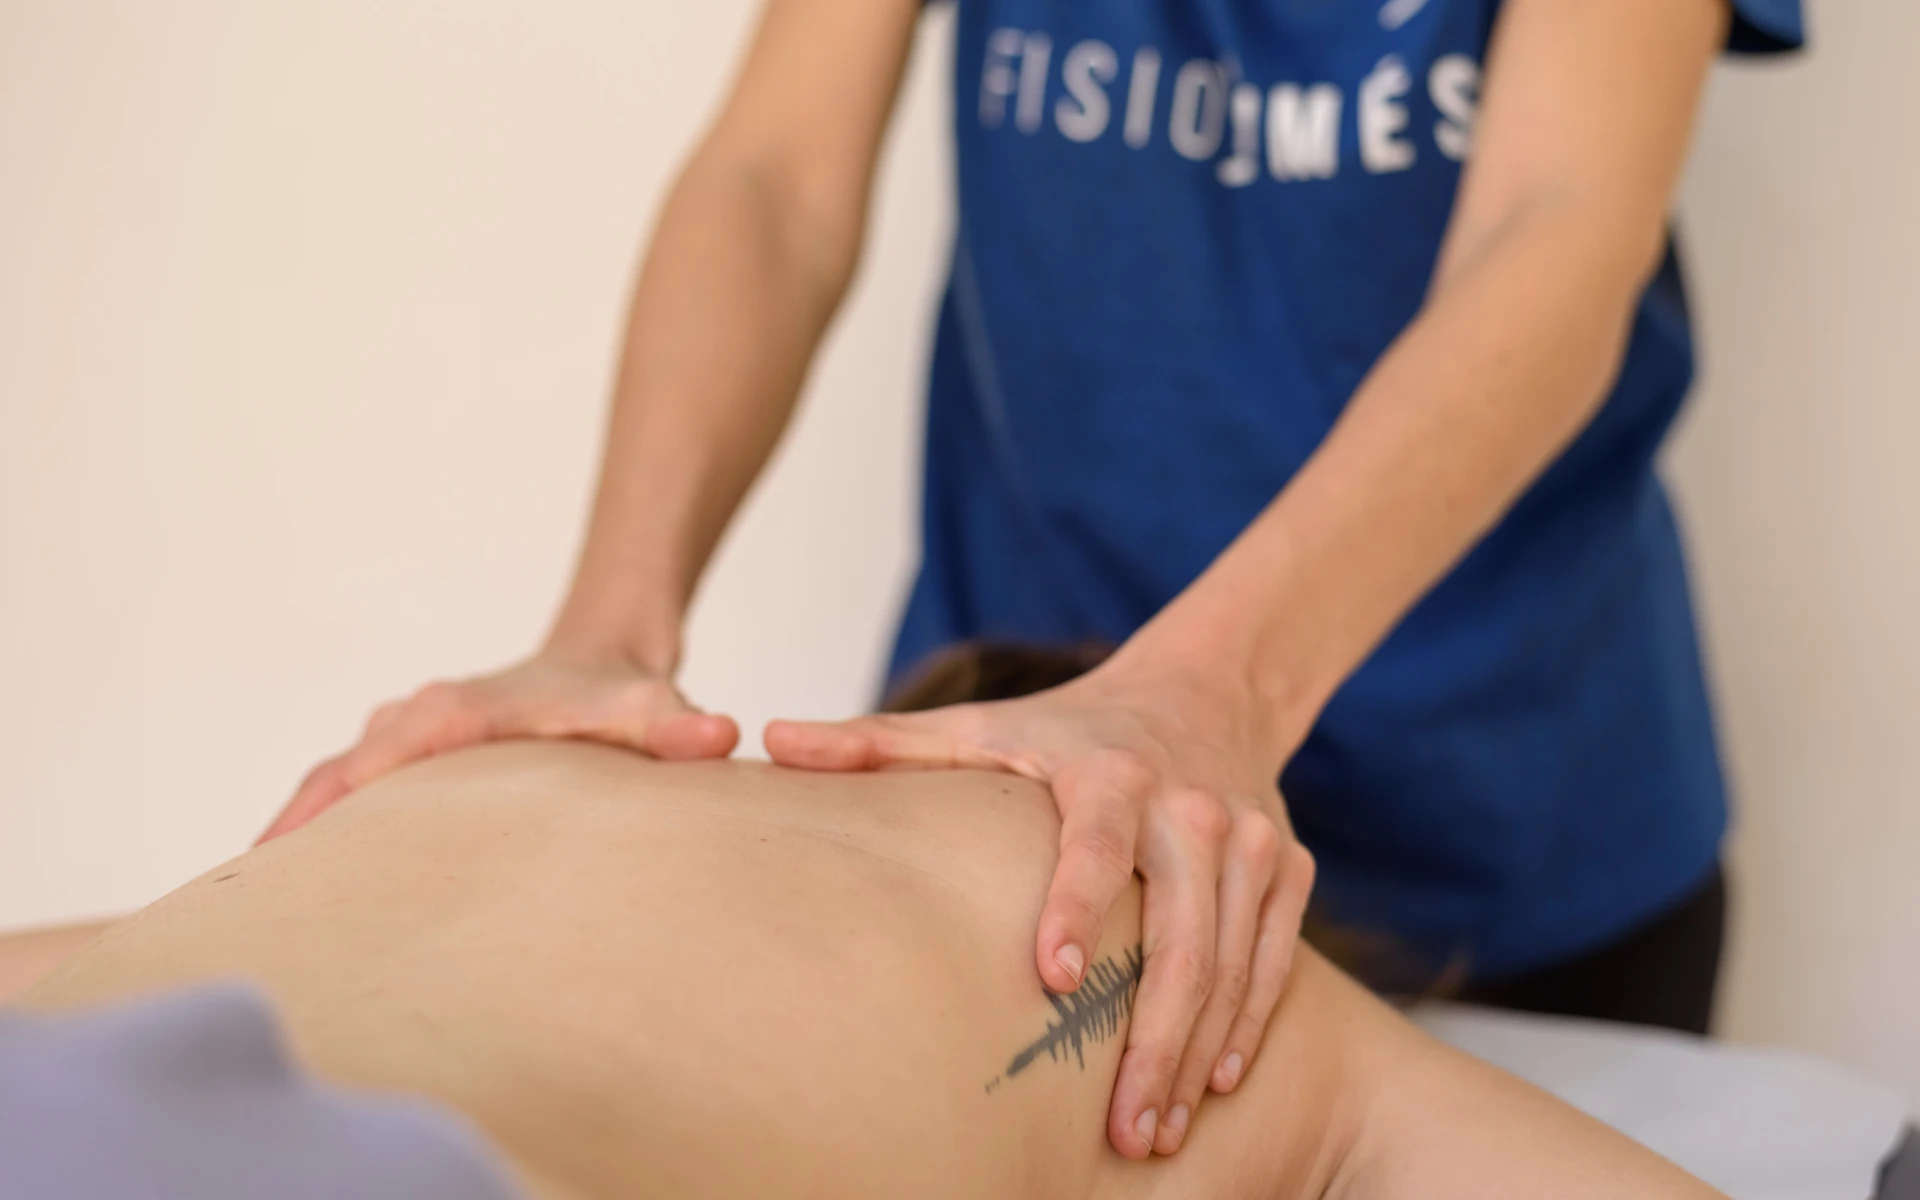
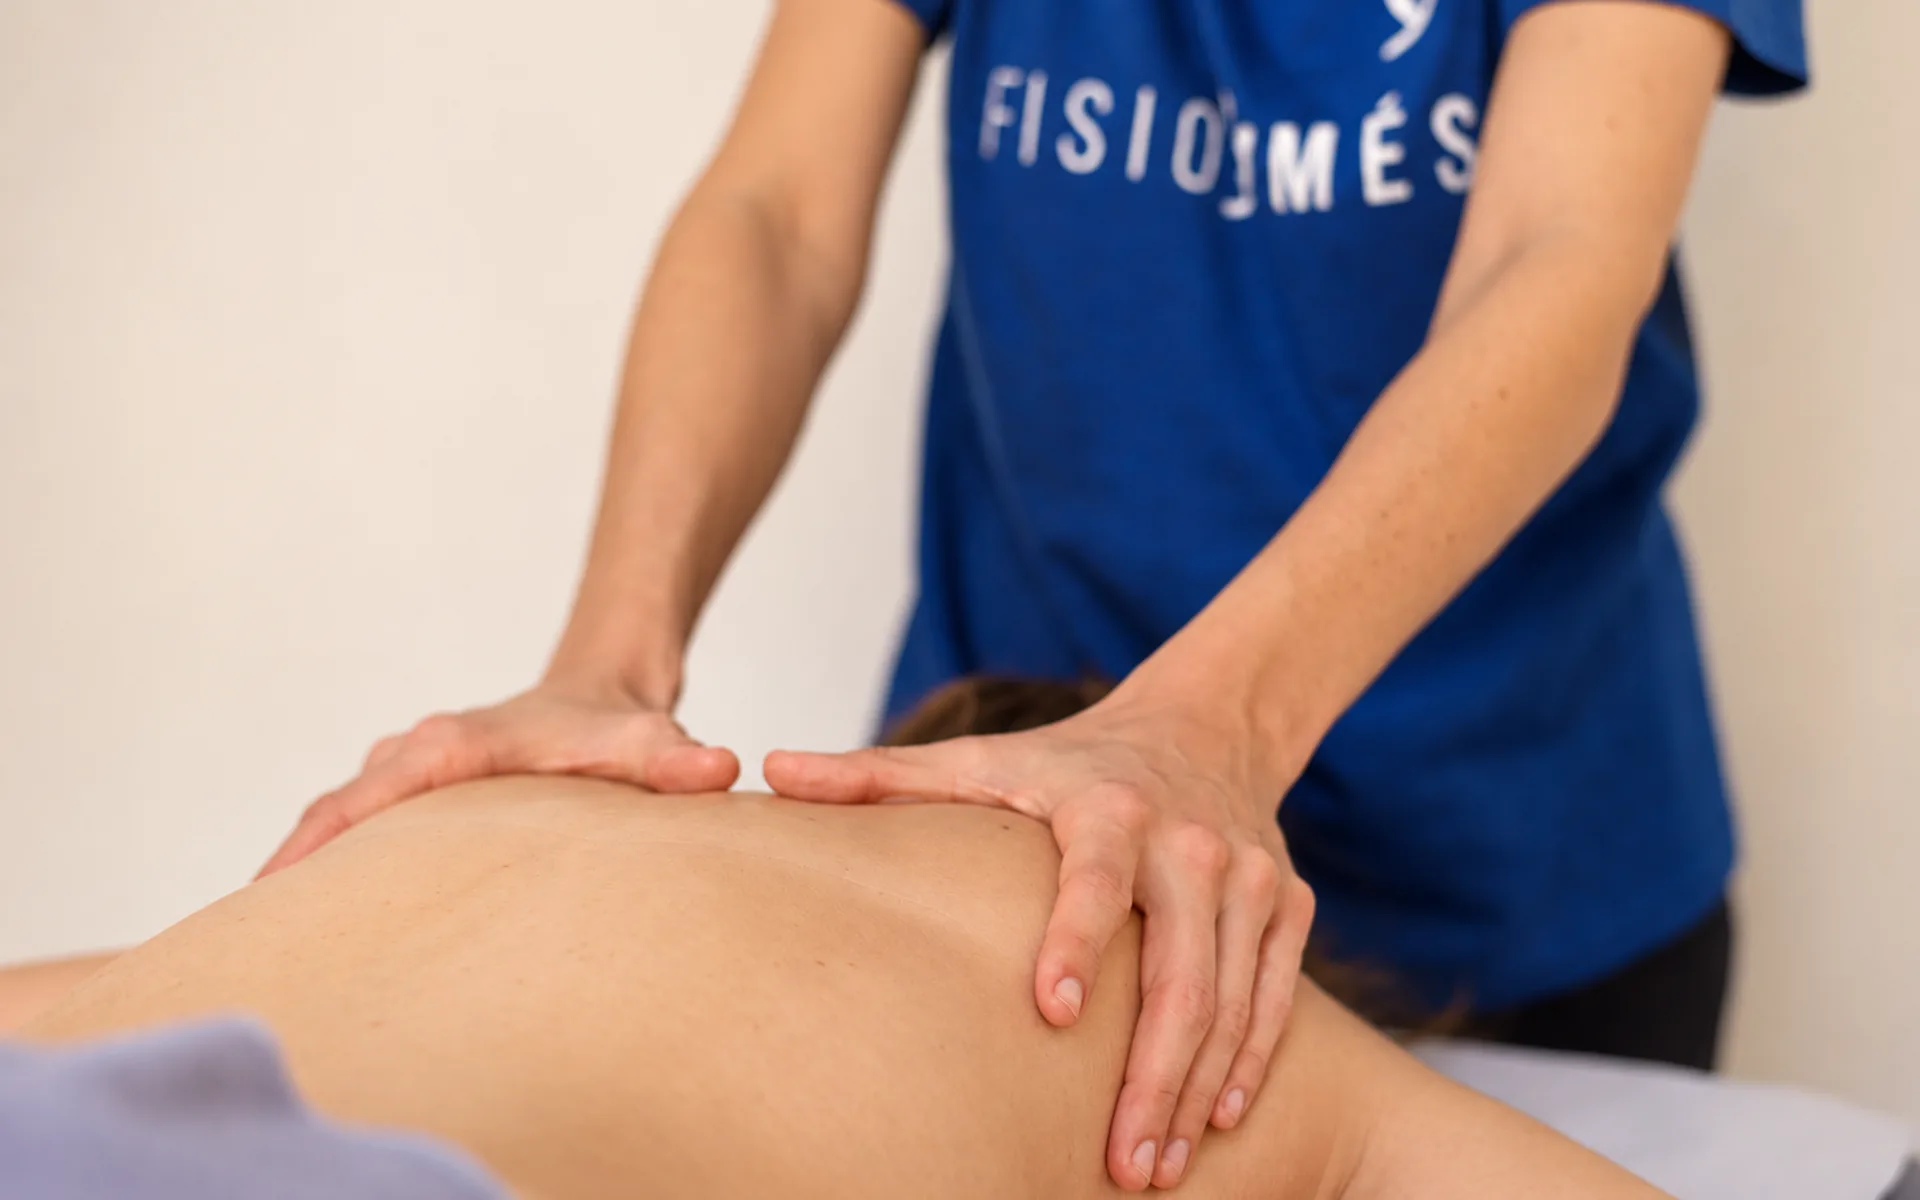
Classes: ordre Pilates/Força/Entrenament, calendari sense hores buides i fons de secció
- Classes dirigides: l'ordre passa a ser Pilates terapèutic, Força ++ i
  Entrenament personal (CA i ES).
- Calendari: només les hores amb classe (09, 10, 12, 13, 18 i 19) i línia
  separadora entre matí i tarda, com al nou horari del client.
- Carrusel de l'inici: nova foto de massatge com a primera diapositiva i
  substitució de hero2-fisioterapia per la versió nova.
- Classes dirigides: foto de la sala com a fons tènue de la capçalera,
  amb el mateix patró de línies que Tractaments i Equip.

diff --git a/src/data/content.ts b/src/data/content.ts
@@ -30,7 +30,9 @@ export const routes: Record<Lang, Record<string, string>> = {
 // Calendari setmanal de classes dirigides (igual en CA i ES; els noms de classe no es tradueixen).
 // dies: 0 = Dilluns … 4 = Divendres. Cada cel·la referencia una clau de `classKinds`.
 export const classSchedule = {
-  hours: ['09:00', '10:00', '11:00', '12:00', '13:00', '14:00', '15:00', '16:00', '17:00', '18:00', '19:00', '20:00'],
+  hours: ['09:00', '10:00', '12:00', '13:00', '18:00', '19:00'],
+  // Franja de tarda: la fila que obre el bloc de tarda porta un separador visual.
+  afternoonFrom: '18:00',
   kinds: {
     pilates: { label: 'Pilates', tone: 'soft' },
     forca: { label: 'Força ++', tone: 'strong' },
@@ -144,17 +146,6 @@ export const t = {
         cta: 'Reserva la teva plaça',
         items: [
           {
-            name: 'Força ++',
-            img: B + 'assets/class-forca.webp',
-            paras: [
-              'Les nostres classes de força estan pensades per a persones que volen mantenir-se actives, guanyar força i millorar la seva condició física d’una manera segura, progressiva i supervisada per un fisioterapeuta.',
-              'Treballem en grups reduïts, fet que ens permet adaptar els exercicis al nivell i les capacitats de cada persona, controlar-ne l’execució i garantir una progressió adequada. Les sessions combinen força, estabilitat, equilibri, coordinació i mobilitat amb un treball dinàmic i funcional.',
-              'L’entrenament es fa principalment en format circuit, alternant estacions de treball per exercitar de manera global les extremitats superiors i inferiors, el core i el sistema cardiovascular.',
-              'Ideals tant per començar a entrenar amb seguretat com per mantenir o millorar la força, prevenir la pèrdua de massa muscular i conservar una bona capacitat funcional amb el pas dels anys.',
-            ],
-            schedule: ['Dimarts 18:00', 'Divendres 12:00'],
-          },
-          {
             name: 'Pilates terapèutic',
             img: B + 'assets/class-pilates.webp',
             paras: [
@@ -164,6 +155,17 @@ export const t = {
               'Les sessions estan supervisades per fisioterapeutes, que adapten els exercicis i la intensitat segons les necessitats, limitacions i evolució de cada persona.',
             ],
             schedule: ['Dilluns 18:00 i 19:00', 'Dimarts 09:00, 10:00 i 18:00', 'Dimecres 18:00', 'Dijous 18:00 i 19:00', 'Divendres 10:00'],
+          },
+          {
+            name: 'Força ++',
+            img: B + 'assets/class-forca.webp',
+            paras: [
+              'Les nostres classes de força estan pensades per a persones que volen mantenir-se actives, guanyar força i millorar la seva condició física d’una manera segura, progressiva i supervisada per un fisioterapeuta.',
+              'Treballem en grups reduïts, fet que ens permet adaptar els exercicis al nivell i les capacitats de cada persona, controlar-ne l’execució i garantir una progressió adequada. Les sessions combinen força, estabilitat, equilibri, coordinació i mobilitat amb un treball dinàmic i funcional.',
+              'L’entrenament es fa principalment en format circuit, alternant estacions de treball per exercitar de manera global les extremitats superiors i inferiors, el core i el sistema cardiovascular.',
+              'Ideals tant per començar a entrenar amb seguretat com per mantenir o millorar la força, prevenir la pèrdua de massa muscular i conservar una bona capacitat funcional amb el pas dels anys.',
+            ],
+            schedule: ['Dimarts 18:00', 'Divendres 12:00'],
           },
           {
             name: 'Entrenament personal',
@@ -261,17 +263,6 @@ export const t = {
         cta: 'Reserva tu plaza',
         items: [
           {
-            name: 'Fuerza ++',
-            img: B + 'assets/class-forca.webp',
-            paras: [
-              'Nuestras clases de fuerza están pensadas para personas que quieren mantenerse activas, ganar fuerza y mejorar su condición física de una manera segura, progresiva y supervisada por un fisioterapeuta.',
-              'Trabajamos en grupos reducidos, lo que nos permite adaptar los ejercicios al nivel y las capacidades de cada persona, controlar su ejecución y garantizar una progresión adecuada. Las sesiones combinan fuerza, estabilidad, equilibrio, coordinación y movilidad con un trabajo dinámico y funcional.',
-              'El entrenamiento se realiza principalmente en formato circuito, alternando estaciones de trabajo para ejercitar de forma global las extremidades superiores e inferiores, el core y el sistema cardiovascular.',
-              'Ideales tanto para empezar a entrenar con seguridad como para mantener o mejorar la fuerza, prevenir la pérdida de masa muscular y conservar una buena capacidad funcional con el paso de los años.',
-            ],
-            schedule: ['Martes 18:00', 'Viernes 12:00'],
-          },
-          {
             name: 'Pilates terapéutico',
             img: B + 'assets/class-pilates.webp',
             paras: [
@@ -281,6 +272,17 @@ export const t = {
               'Las sesiones están supervisadas por fisioterapeutas, que adaptan los ejercicios y su intensidad según las necesidades, limitaciones y evolución de cada persona.',
             ],
             schedule: ['Lunes 18:00 y 19:00', 'Martes 09:00, 10:00 y 18:00', 'Miércoles 18:00', 'Jueves 18:00 y 19:00', 'Viernes 10:00'],
+          },
+          {
+            name: 'Fuerza ++',
+            img: B + 'assets/class-forca.webp',
+            paras: [
+              'Nuestras clases de fuerza están pensadas para personas que quieren mantenerse activas, ganar fuerza y mejorar su condición física de una manera segura, progresiva y supervisada por un fisioterapeuta.',
+              'Trabajamos en grupos reducidos, lo que nos permite adaptar los ejercicios al nivel y las capacidades de cada persona, controlar su ejecución y garantizar una progresión adecuada. Las sesiones combinan fuerza, estabilidad, equilibrio, coordinación y movilidad con un trabajo dinámico y funcional.',
+              'El entrenamiento se realiza principalmente en formato circuito, alternando estaciones de trabajo para ejercitar de forma global las extremidades superiores e inferiores, el core y el sistema cardiovascular.',
+              'Ideales tanto para empezar a entrenar con seguridad como para mantener o mejorar la fuerza, prevenir la pérdida de masa muscular y conservar una buena capacidad funcional con el paso de los años.',
+            ],
+            schedule: ['Martes 18:00', 'Viernes 12:00'],
           },
           {
             name: 'Entrenamiento personal',
